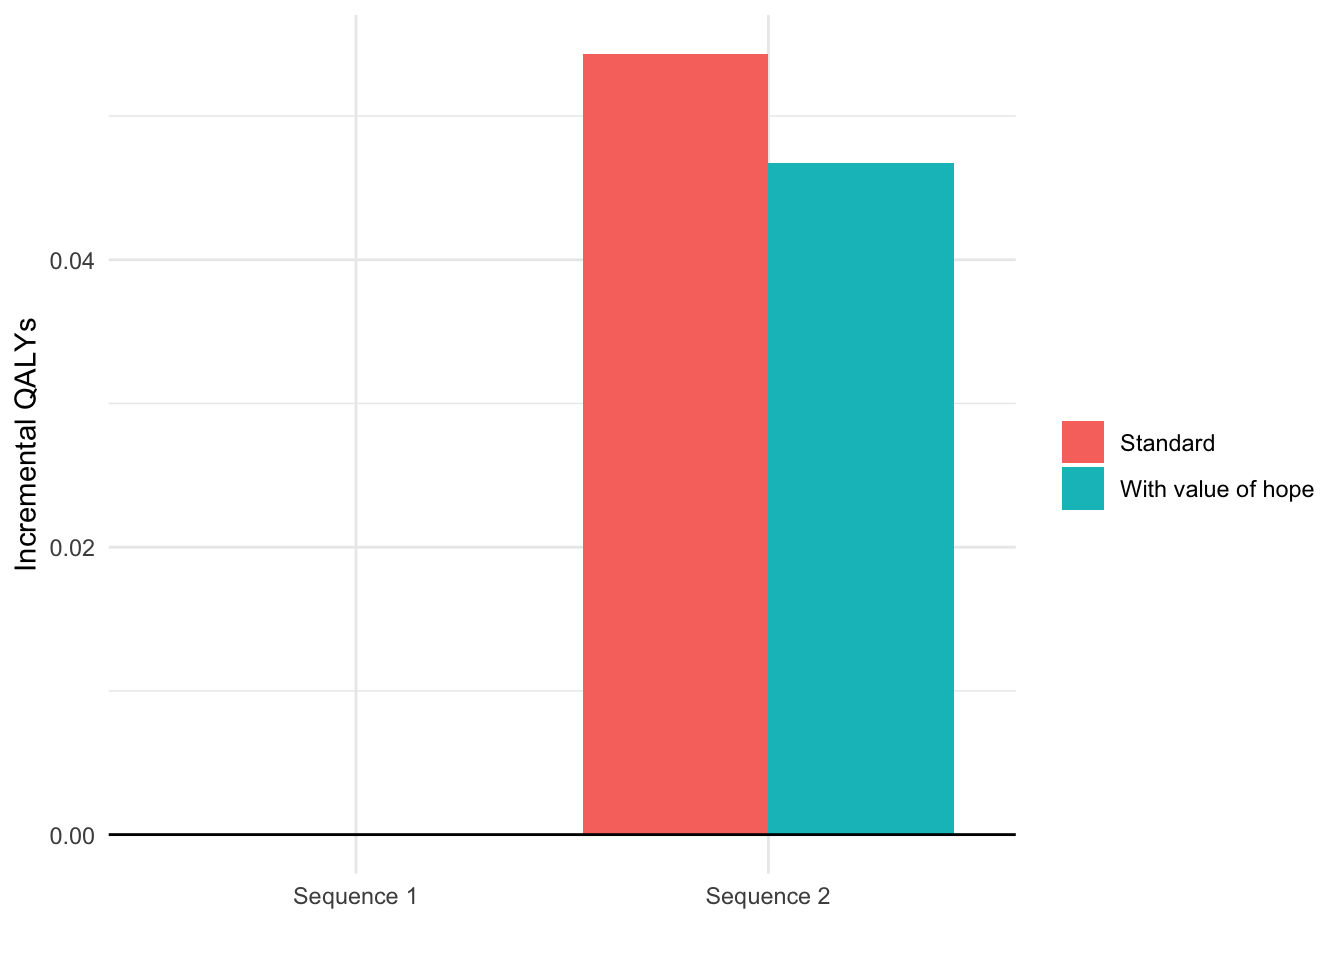
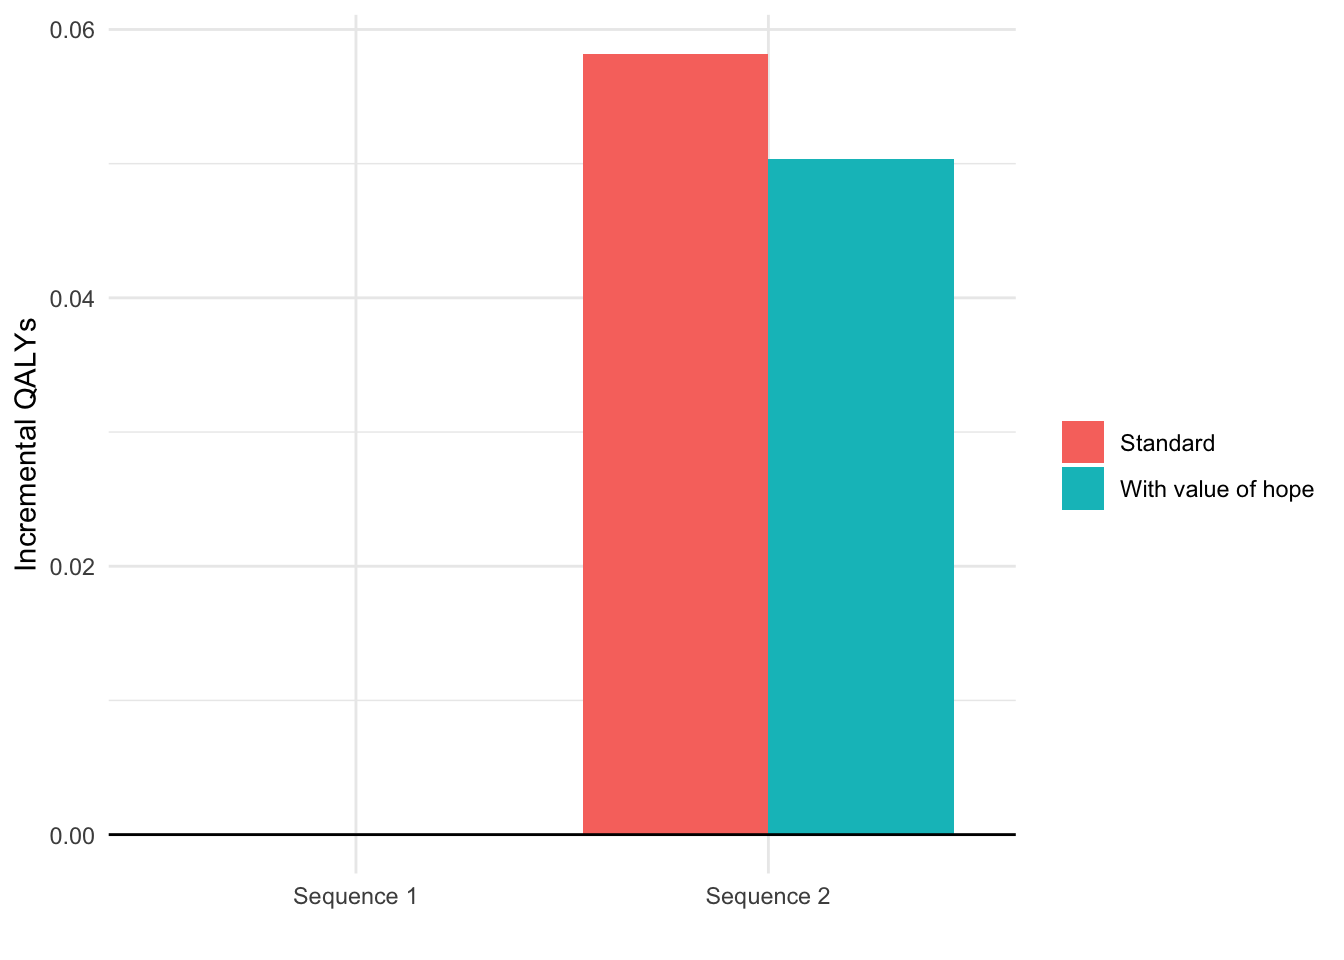
Utility model now a function of adverse event probabilities

diff --git a/docs/articles/tutorial.html b/docs/articles/tutorial.html
@@ -243,12 +243,12 @@ tmat_3_2L &lt;-<span class="st"> </span><span class="kw"><a href="../reference/c
 transmod_data &lt;-<span class="st"> </span><span class="kw"><a href="../reference/create_transmod_data.html">create_transmod_data</a></span>(struct, tmat, pats)
 ## Print first 5 rows and and 10 covariates from data
 <span class="kw">print</span>(transmod_data[<span class="dv">1</span><span class="op">:</span><span class="dv">5</span>, <span class="dv">1</span><span class="op">:</span><span class="dv">10</span>]) </code></pre></div>
-<pre><code>##    strategy_id patient_id transition_id female      age mutation tx_abb
-## 1:           1          1             1      0 52.89732        0    erl
-## 2:           1          1             2      0 52.89732        0    erl
-## 3:           1          1             3      0 52.89732        0   pbdc
-## 4:           1          1             4      0 52.89732        0   pbdc
-## 5:           1          1             5      0 52.89732        0   pbdc
+<pre><code>##    strategy_id patient_id transition_id female    age mutation tx_abb
+## 1:           1          1             1      1 71.076        0    erl
+## 2:           1          1             2      1 71.076        0    erl
+## 3:           1          1             3      1 71.076        0   pbdc
+## 4:           1          1             4      1 71.076        0   pbdc
+## 5:           1          1             5      1 71.076        0   pbdc
 ##    tx_hist osi_s1p1_scale osi_s1d_scale
 ## 1:    &lt;NA&gt;              1             0
 ## 2:    &lt;NA&gt;              0             1
@@ -516,27 +516,27 @@ knitr<span class="op">::</span><span class="kw"><a href="http://www.rdocumentati
 <tr class="odd">
 <td>Incremental QALYs</td>
 <td align="left">-</td>
-<td align="left">0.05 (0.00, 0.11)</td>
+<td align="left">0.06 (0.01, 0.11)</td>
 </tr>
 <tr class="even">
 <td>Incremental costs ($)</td>
 <td align="left">-</td>
-<td align="left">5,139 (-7,784, 17,712)</td>
+<td align="left">5,824 (-5,761, 17,692)</td>
 </tr>
 <tr class="odd">
 <td>Incremental NMB ($)</td>
 <td align="left">-</td>
-<td align="left">295 (-7,415, 8,129)</td>
+<td align="left">-4 (-7,978, 7,786)</td>
 </tr>
 <tr class="even">
 <td>ICER ($ per QALY)</td>
 <td align="left">-</td>
-<td align="left">94,571</td>
+<td align="left">100,066</td>
 </tr>
 <tr class="odd">
 <td>Conclusion</td>
 <td align="left">-</td>
-<td align="left">Cost-effective</td>
+<td align="left">Not cost-effective</td>
 </tr>
 </tbody>
 </table>
@@ -606,33 +606,33 @@ knitr<span class="op">::</span><span class="kw"><a href="http://www.rdocumentati
 <tbody>
 <tr class="odd">
 <td>Life-years stable disease</td>
-<td align="left">0.44 (0.41, 0.46)</td>
+<td align="left">0.43 (0.41, 0.46)</td>
 <td align="left">0.51 (0.48, 0.53)</td>
 </tr>
 <tr class="even">
 <td>Life-years progressed 1L</td>
 <td align="left">0.18 (0.15, 0.20)</td>
-<td align="left">0.17 (0.15, 0.20)</td>
+<td align="left">0.18 (0.16, 0.20)</td>
 </tr>
 <tr class="odd">
 <td>Life-years progressed 2L</td>
-<td align="left">0.17 (0.14, 0.20)</td>
-<td align="left">0.17 (0.14, 0.20)</td>
+<td align="left">0.17 (0.14, 0.21)</td>
+<td align="left">0.17 (0.14, 0.21)</td>
 </tr>
 <tr class="even">
 <td>Health care sector costs</td>
-<td align="left">103,766 (94,616, 116,827)</td>
-<td align="left">108,905 (100,505, 120,257)</td>
+<td align="left">103,909 (92,888, 116,284)</td>
+<td align="left">109,733 (100,316, 120,494)</td>
 </tr>
 <tr class="odd">
 <td>Route of administration</td>
 <td align="left">0.88 (0.87, 0.90)</td>
-<td align="left">0.89 (0.87, 0.90)</td>
+<td align="left">0.89 (0.88, 0.90)</td>
 </tr>
 <tr class="even">
 <td>Years since FDA approval</td>
-<td align="left">13.40 (13.31, 13.49)</td>
-<td align="left">4.10 (3.96, 4.24)</td>
+<td align="left">13.38 (13.30, 13.46)</td>
+<td align="left">4.10 (3.98, 4.23)</td>
 </tr>
 </tbody>
 </table>
@@ -664,33 +664,33 @@ knitr<span class="op">::</span><span class="kw"><a href="http://www.rdocumentati
 <tbody>
 <tr class="odd">
 <td>Life-years stable disease</td>
-<td align="left">23.63 (7.24, 43.12)</td>
-<td align="left">74.29 (55.70, 90.05)</td>
+<td align="left">16.95 (1.45, 33.22)</td>
+<td align="left">72.84 (53.97, 90.88)</td>
 </tr>
 <tr class="even">
 <td>Life-years progressed 1L</td>
-<td align="left">48.44 (12.01, 84.68)</td>
-<td align="left">46.02 (14.59, 89.04)</td>
+<td align="left">46.68 (11.74, 75.16)</td>
+<td align="left">46.36 (14.71, 88.23)</td>
 </tr>
 <tr class="odd">
 <td>Life-years progressed 2L</td>
-<td align="left">51.96 (15.84, 89.77)</td>
-<td align="left">52.98 (8.39, 86.04)</td>
+<td align="left">50.09 (20.06, 85.88)</td>
+<td align="left">51.06 (17.05, 86.15)</td>
 </tr>
 <tr class="even">
 <td>Health care sector costs</td>
-<td align="left">58.29 (17.64, 86.77)</td>
-<td align="left">42.29 (6.96, 68.44)</td>
+<td align="left">62.70 (30.91, 91.02)</td>
+<td align="left">47.74 (20.09, 71.94)</td>
 </tr>
 <tr class="odd">
 <td>Route of administration</td>
-<td align="left">44.91 (21.67, 73.91)</td>
-<td align="left">57.15 (26.83, 88.67)</td>
+<td align="left">46.75 (7.09, 80.14)</td>
+<td align="left">59.02 (20.79, 97.09)</td>
 </tr>
 <tr class="even">
 <td>Years since FDA approval</td>
-<td align="left">98.83 (97.91, 99.79)</td>
-<td align="left">1.98 (0.50, 3.45)</td>
+<td align="left">98.69 (97.92, 99.57)</td>
+<td align="left">1.38 (0.11, 2.71)</td>
 </tr>
 </tbody>
 </table>
